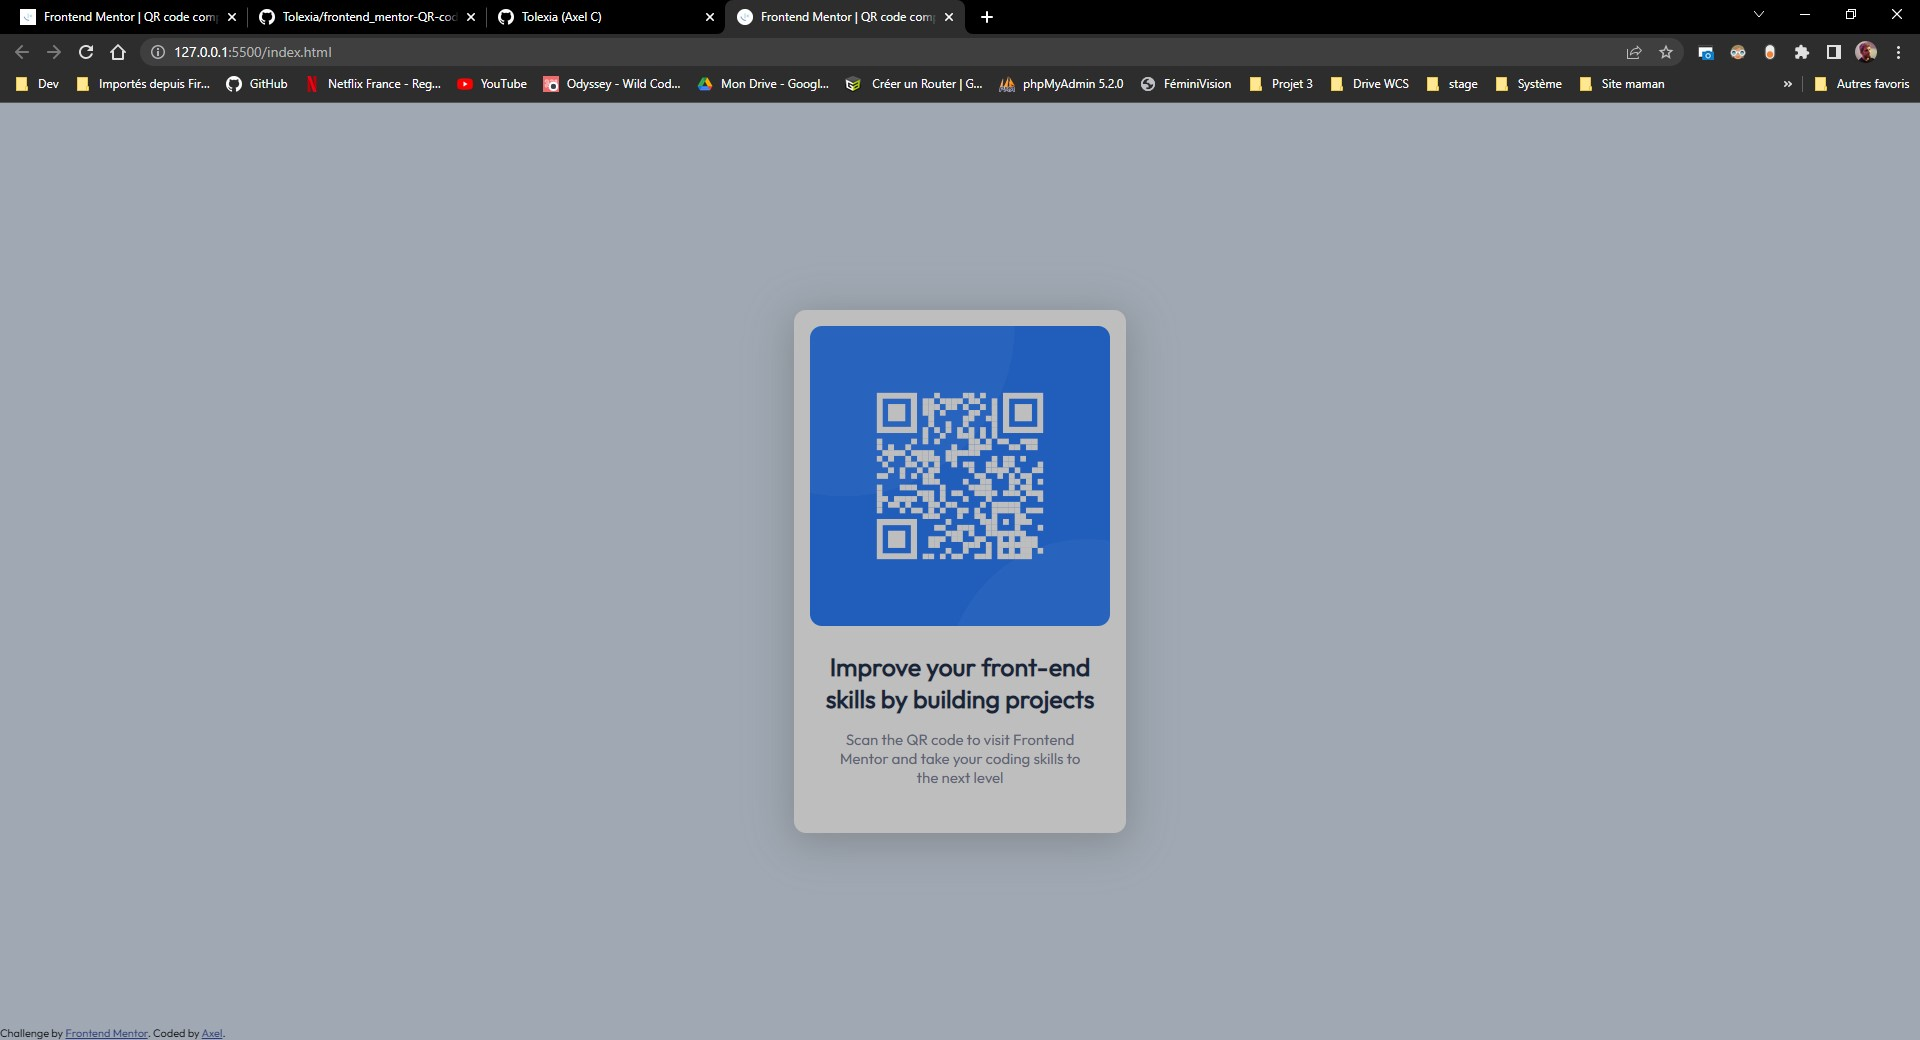
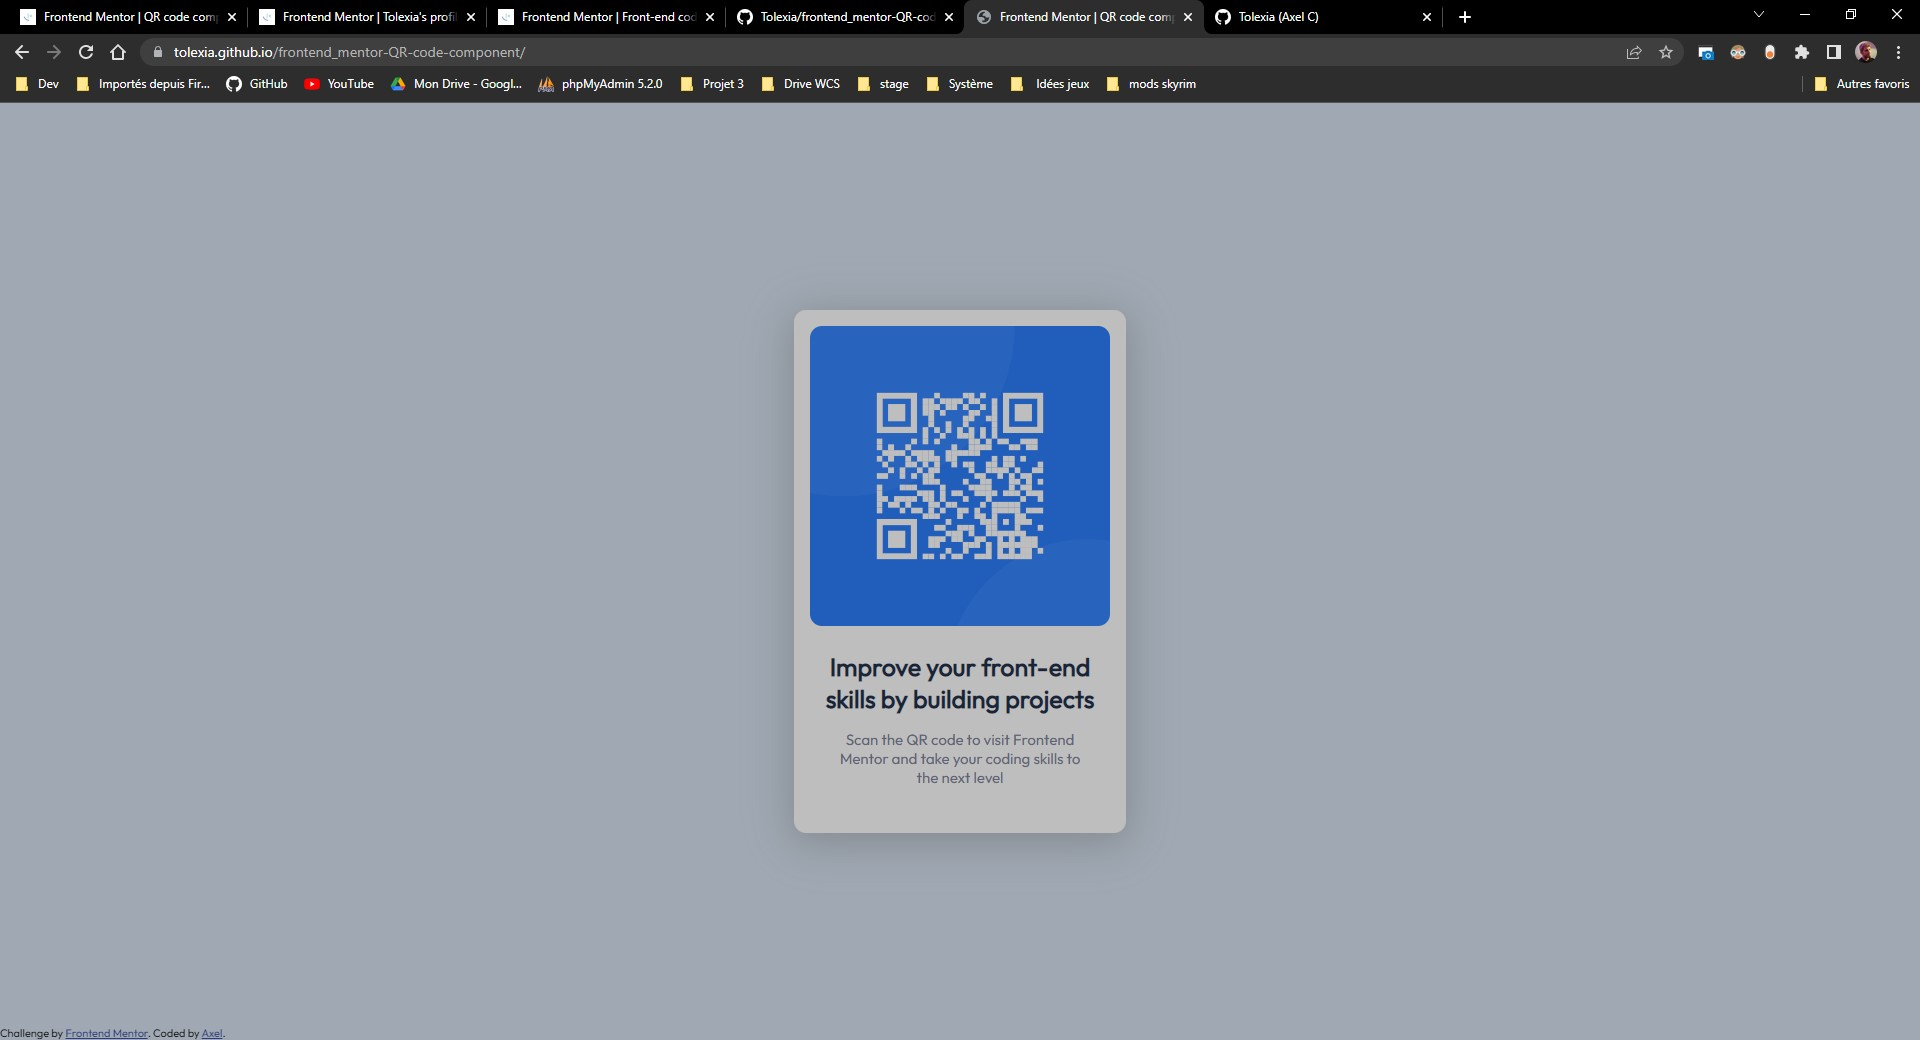
updated screenshot + adding solution links

Changed region(s): [[0.0938, 0.0, 0.875, 0.0923], [0.375, 0.0, 0.6875, 0.0308]]

diff --git a/README.md b/README.md
@@ -21,8 +21,8 @@ This is a solution to the [QR code component challenge on Frontend Mentor](https
 
 ### Links
 
-- Solution URL: [Add solution URL here](https://your-solution-url.com)
-- Live Site URL: [Add live site URL here](https://your-live-site-url.com)
+- Solution URL: [Add solution URL here](https://github.com/Tolexia/frontend_mentor-QR-code-component)
+- Live Site URL: [Add live site URL here](https://tolexia.github.io/frontend_mentor-QR-code-component/)
 
 ## My process
 
